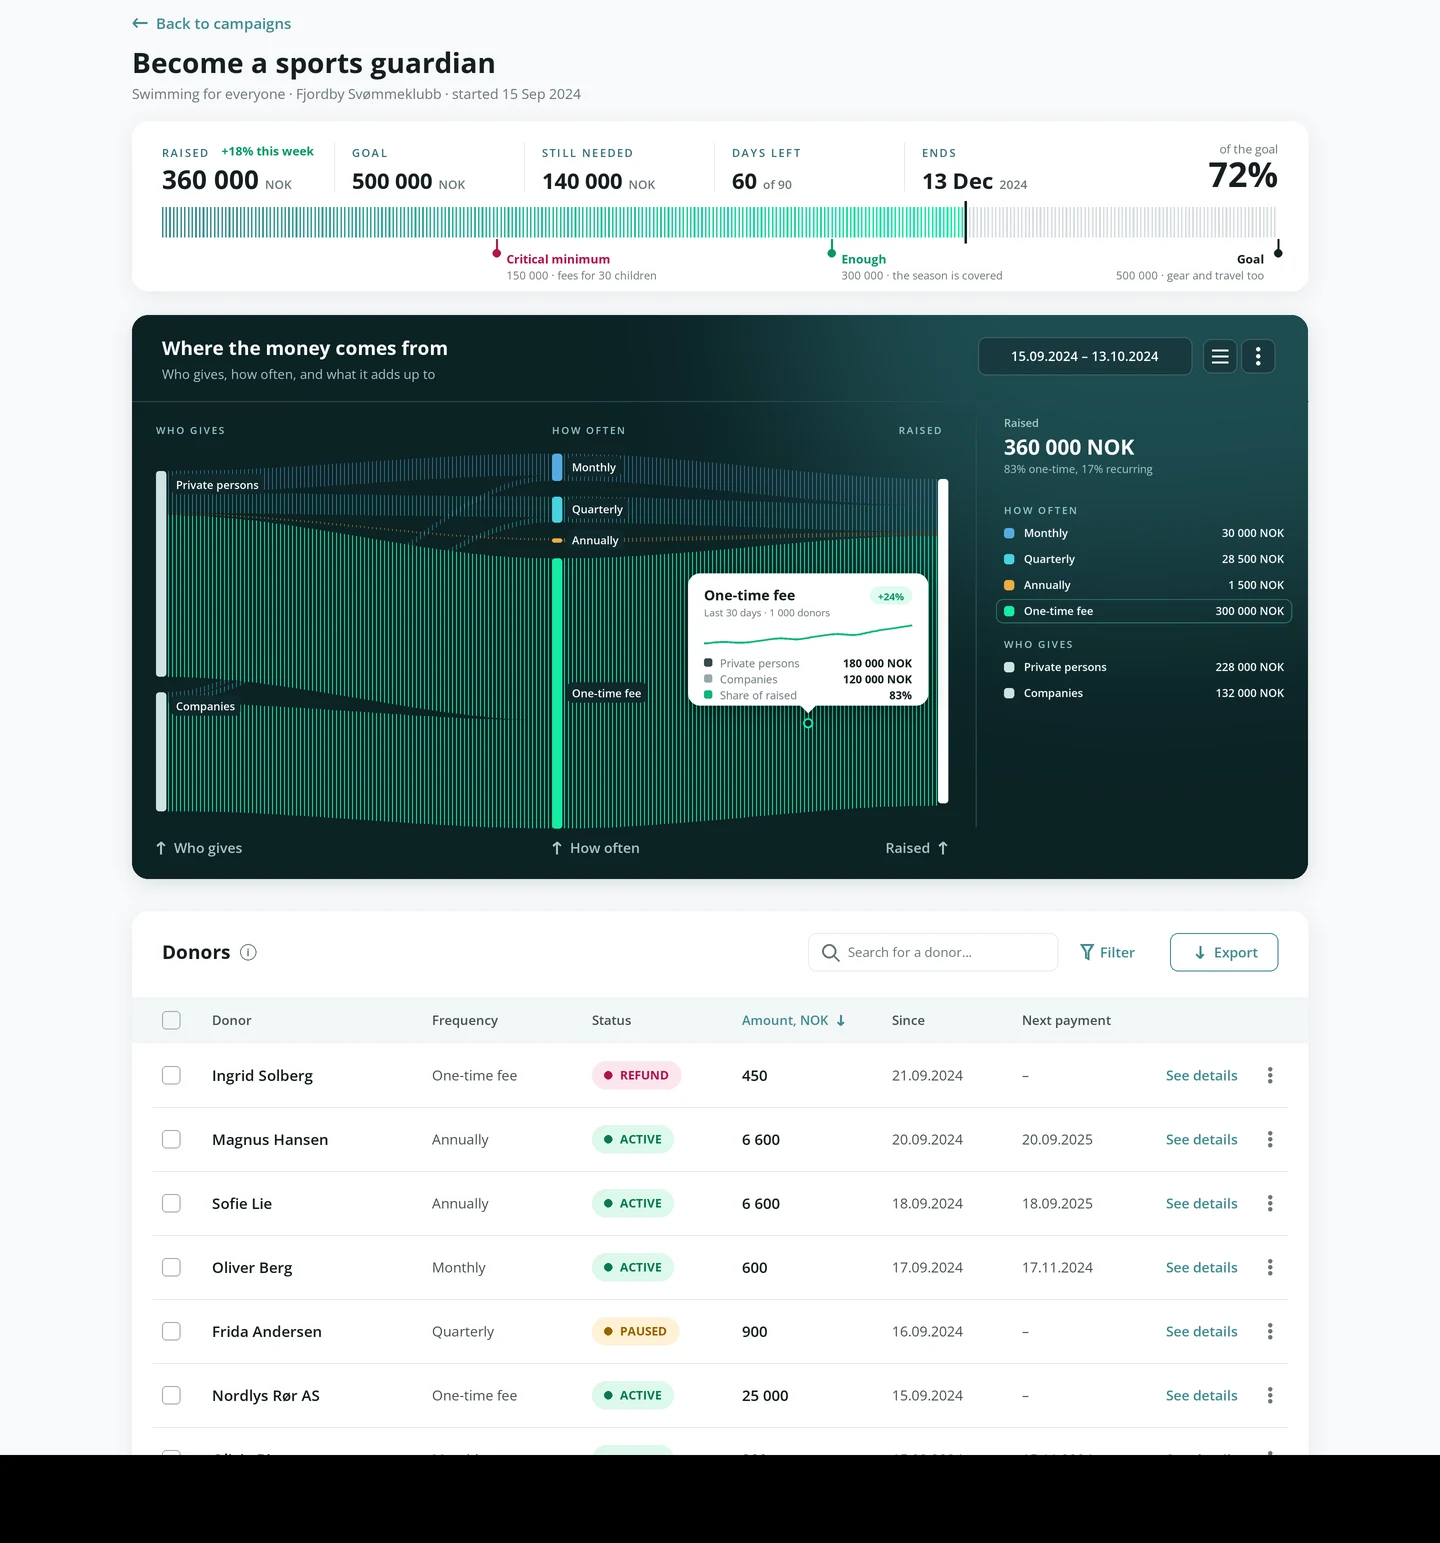
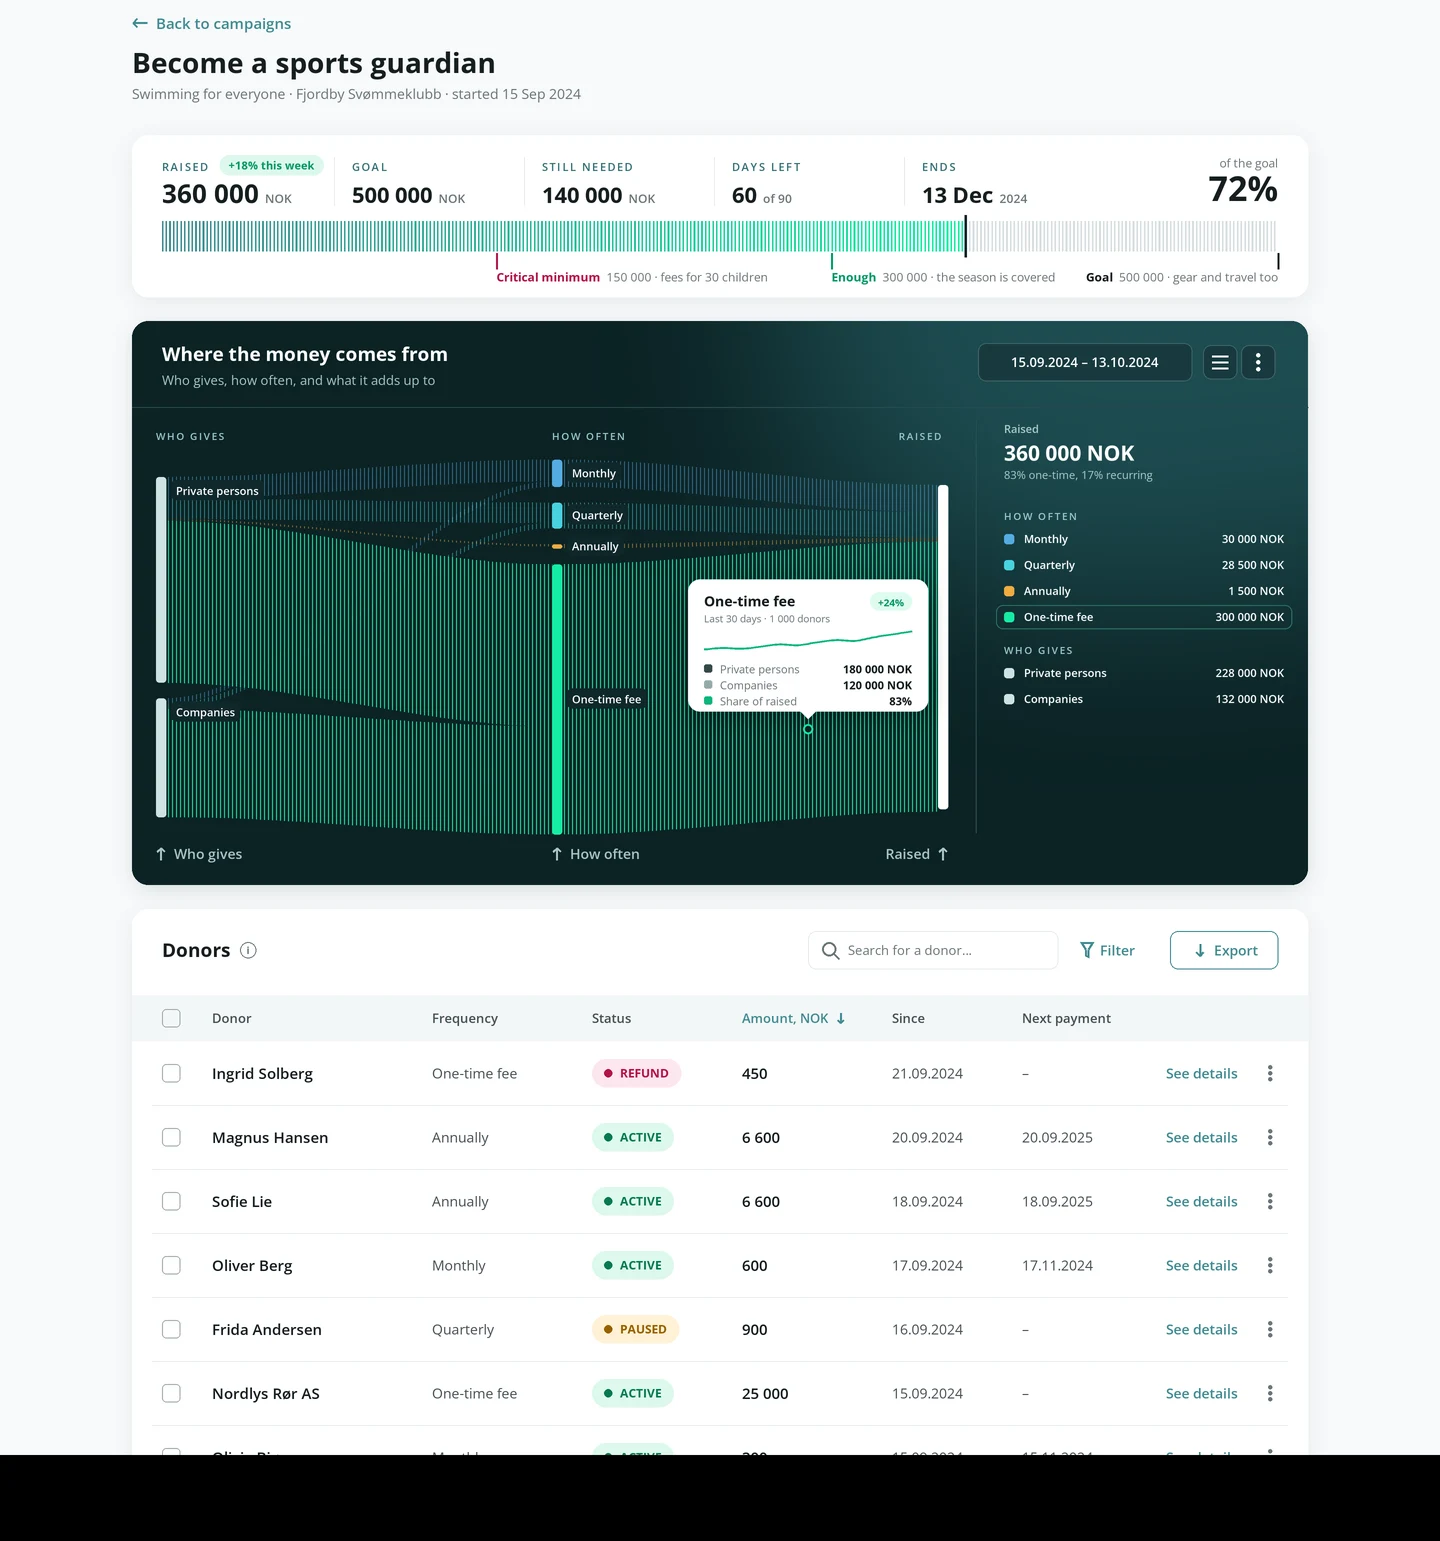
Sport Guardian admin: +18% as a badge, mark labels in one line, 36 px under the title and 24 px between blocks

diff --git a/SportGuardian.html b/SportGuardian.html
@@ -311,7 +311,7 @@ footer .wrap{display:flex;justify-content:space-between;gap:16px;flex-wrap:wrap}
 
 <figure class="c5-12 rv" style="--d:.1s"><div class="panel"><img class="el c" src="assets/work/sport-guardian/el-create-donations.webp" alt="From the campaign builder: Accept donations from private persons and companies, and Select donation frequency, from monthly to a one-time fee, each with a short hint." width="1200" height="1183" loading="lazy"></div><figcaption>For the club: who can give and how often, with a hint under every choice.</figcaption></figure>
 
-<figure class="c1-12 rv scroll"><div class="panel"><div class="browser" style="max-width:1000px"><div class="bar" aria-hidden="true"><i></i><i></i><i></i><span>admin.supporter.no</span></div><div class="vp fx" style="--to:-45.9%;--t:24s;--hd:4.514%"><img class="hd" src="assets/work/sport-guardian/screen-statistik-head.webp" alt="" width="1440" height="65" loading="lazy"><img src="assets/work/sport-guardian/screen-statistik-body.webp" alt="The campaign dashboard in the admin panel: the title Become a sports guardian; a progress card with 360 000 NOK raised, a 500 000 NOK goal, 140 000 still needed, 60 days left and the end date, a full-width bar at 72% with marks for the critical minimum, enough and the goal; a dark Sankey card of where the money comes from with a tooltip and a legend; and the donor table with search, Filter and Export." width="1440" height="1543" loading="lazy"></div></div></div><figcaption style="max-width:64ch">The campaign dashboard: the goal and the days left at the top, where the money comes from, and every donor with refunds and pauses in one table.</figcaption></figure>
+<figure class="c1-12 rv scroll"><div class="panel"><div class="browser" style="max-width:1000px"><div class="bar" aria-hidden="true"><i></i><i></i><i></i><span>admin.supporter.no</span></div><div class="vp fx" style="--to:-45.8%;--t:24s;--hd:4.514%"><img class="hd" src="assets/work/sport-guardian/screen-statistik-head.webp" alt="" width="1440" height="65" loading="lazy"><img src="assets/work/sport-guardian/screen-statistik-body.webp" alt="The campaign dashboard in the admin panel: the title Become a sports guardian; a progress card with 360 000 NOK raised, a 500 000 NOK goal, 140 000 still needed, 60 days left and the end date, a full-width bar at 72% with marks for the critical minimum, enough and the goal; a dark Sankey card of where the money comes from with a tooltip and a legend; and the donor table with search, Filter and Export." width="1440" height="1541" loading="lazy"></div></div></div><figcaption style="max-width:64ch">The campaign dashboard: the goal and the days left at the top, where the money comes from, and every donor with refunds and pauses in one table.</figcaption></figure>
       <div class="c1-12 rv charts">
         <div class="about"><h3>What this chart is</h3><p><b>A Sankey diagram.</b> Each band is as wide as the amount it carries, so you can follow the money from who gives, through how often they give, to the total.</p><p><b>When to use it:</b> when a whole splits and merges across stages and the question is where the volume goes, as with a budget, the money in a campaign, or the paths people take through a product. With more than about a dozen nodes, or when exact values must be compared, a table or a bar chart reads better.</p></div>
         <div><h3>Other charts, and when to use them</h3><ul class="ctypes"><li><svg viewBox="0 0 56 32" aria-hidden="true" focusable="false"><rect x="4" y="16" width="8" height="14" rx="1" fill="#CFE3E4"/><rect x="16" y="6" width="8" height="24" rx="1" fill="#418B91"/><rect x="28" y="12" width="8" height="18" rx="1" fill="#CFE3E4"/><rect x="40" y="20" width="8" height="10" rx="1" fill="#CFE3E4"/></svg><b>Bar chart</b><span>Compares amounts across categories, such as money raised per club or per campaign.</span></li><li><svg viewBox="0 0 56 32" aria-hidden="true" focusable="false"><path d="M3 26 L14 20 L24 22 L34 11 L44 13 L53 4" fill="none" stroke="#418B91" stroke-width="2" stroke-linejoin="round" stroke-linecap="round"/></svg><b>Line chart</b><span>Shows a trend over time, such as money raised day by day.</span></li><li><svg viewBox="0 0 56 32" aria-hidden="true" focusable="false"><path d="M3 26 L14 19 L24 21 L34 11 L44 12 L53 5 V30 H3 Z" fill="#CFE3E4"/><path d="M3 26 L14 19 L24 21 L34 11 L44 12 L53 5" fill="none" stroke="#418B91" stroke-width="2" stroke-linejoin="round"/></svg><b>Area chart</b><span>A line chart with the volume filled in: for a total that builds up over time.</span></li><li><svg viewBox="0 0 56 32" aria-hidden="true" focusable="false"><rect x="4" y="14" width="10" height="16" fill="#418B91"/><rect x="4" y="8" width="10" height="6" fill="#CFE3E4"/><rect x="22" y="10" width="10" height="20" fill="#418B91"/><rect x="22" y="3" width="10" height="7" fill="#CFE3E4"/><rect x="40" y="18" width="10" height="12" fill="#418B91"/><rect x="40" y="12" width="10" height="6" fill="#CFE3E4"/></svg><b>Stacked bar chart</b><span>Parts of a whole, compared across groups, such as one-time and recurring gifts per campaign.</span></li><li><svg viewBox="0 0 56 32" aria-hidden="true" focusable="false"><polygon points="28.0,2.0 40.1,9.0 40.1,23.0 28.0,30.0 15.9,23.0 15.9,9.0" fill="none" stroke="#CFE3E4" stroke-width="1"/><polygon points="28.0,7.0 35.8,11.5 35.8,20.5 28.0,25.0 20.2,20.5 20.2,11.5" fill="none" stroke="#CFE3E4" stroke-width="1"/><polygon points="28.0,11.5 31.9,13.8 31.9,18.2 28.0,20.5 24.1,18.2 24.1,13.8" fill="none" stroke="#CFE3E4" stroke-width="1"/><line x1="28" y1="16" x2="28.0" y2="2.0" stroke="#CFE3E4" stroke-width="1"/><line x1="28" y1="16" x2="40.1" y2="9.0" stroke="#CFE3E4" stroke-width="1"/><line x1="28" y1="16" x2="40.1" y2="23.0" stroke="#CFE3E4" stroke-width="1"/><line x1="28" y1="16" x2="28.0" y2="30.0" stroke="#CFE3E4" stroke-width="1"/><line x1="28" y1="16" x2="15.9" y2="23.0" stroke="#CFE3E4" stroke-width="1"/><line x1="28" y1="16" x2="15.9" y2="9.0" stroke="#CFE3E4" stroke-width="1"/><polygon points="28.0,4.0 34.9,12.0 39.3,22.5 28.0,22.0 19.3,21.0 20.2,11.5" fill="#418B91" fill-opacity=".35" stroke="#418B91" stroke-width="1.6" stroke-linejoin="round"/></svg><b>Radar chart</b><span>Compares several measures of one thing at once, such as how a club does on donors, gifts, reach and repeat giving against the average; reads best with five to eight measures.</span></li><li><svg viewBox="0 0 56 32" aria-hidden="true" focusable="false"><circle cx="28" cy="16" r="11" fill="none" stroke="#CFE3E4" stroke-width="5"/><path d="M28 5 A11 11 0 1 1 18.5 21.5" fill="none" stroke="#418B91" stroke-width="5"/></svg><b>Donut or progress ring</b><span>One share of a whole, or progress to a goal; reads best with one to three parts.</span></li><li><svg viewBox="0 0 56 32" aria-hidden="true" focusable="false"><rect x="4" y="3" width="48" height="6" rx="1" fill="#418B91"/><rect x="11" y="12" width="34" height="6" rx="1" fill="#418B91" fill-opacity=".7"/><rect x="18" y="21" width="20" height="6" rx="1" fill="#418B91" fill-opacity=".45"/></svg><b>Funnel chart</b><span>How many people drop off between the steps of a flow, from the campaign page to the payment.</span></li><li><svg viewBox="0 0 56 32" aria-hidden="true" focusable="false"><rect x="4" y="3" width="9" height="8" rx="1" fill="#418B91" fill-opacity="0.2"/><rect x="14" y="3" width="9" height="8" rx="1" fill="#418B91" fill-opacity="0.5"/><rect x="24" y="3" width="9" height="8" rx="1" fill="#418B91" fill-opacity="0.9"/><rect x="34" y="3" width="9" height="8" rx="1" fill="#418B91" fill-opacity="0.6"/><rect x="44" y="3" width="9" height="8" rx="1" fill="#418B91" fill-opacity="0.3"/><rect x="4" y="12" width="9" height="8" rx="1" fill="#418B91" fill-opacity="0.4"/><rect x="14" y="12" width="9" height="8" rx="1" fill="#418B91" fill-opacity="0.8"/><rect x="24" y="12" width="9" height="8" rx="1" fill="#418B91" fill-opacity="1"/><rect x="34" y="12" width="9" height="8" rx="1" fill="#418B91" fill-opacity="0.7"/><rect x="44" y="12" width="9" height="8" rx="1" fill="#418B91" fill-opacity="0.2"/><rect x="4" y="21" width="9" height="8" rx="1" fill="#418B91" fill-opacity="0.1"/><rect x="14" y="21" width="9" height="8" rx="1" fill="#418B91" fill-opacity="0.3"/><rect x="24" y="21" width="9" height="8" rx="1" fill="#418B91" fill-opacity="0.5"/><rect x="34" y="21" width="9" height="8" rx="1" fill="#418B91" fill-opacity="0.4"/><rect x="44" y="21" width="9" height="8" rx="1" fill="#418B91" fill-opacity="0.15"/></svg><b>Heatmap</b><span>Patterns across two dimensions, such as donations by weekday and hour.</span></li><li><svg viewBox="0 0 56 32" aria-hidden="true" focusable="false"><circle cx="6" cy="26" r="2.6" fill="#418B91"/><circle cx="12" cy="23" r="2.6" fill="#418B91"/><circle cx="16" cy="24" r="2.6" fill="#418B91"/><circle cx="21" cy="19" r="2.6" fill="#418B91"/><circle cx="26" cy="18" r="2.6" fill="#418B91"/><circle cx="30" cy="15" r="2.6" fill="#418B91"/><circle cx="35" cy="14" r="2.6" fill="#418B91"/><circle cx="39" cy="10" r="2.6" fill="#418B91"/><circle cx="44" cy="11" r="2.6" fill="#418B91"/><circle cx="49" cy="6" r="2.6" fill="#418B91"/><circle cx="24" cy="25" r="2.6" fill="#418B91"/><circle cx="42" cy="20" r="2.6" fill="#418B91"/></svg><b>Scatter plot</b><span>How two measures relate, such as the size of a gift and how often the donor gives.</span></li></ul></div>

diff --git a/tools/sport-guardian/admin_dash.py b/tools/sport-guardian/admin_dash.py
@@ -48,7 +48,8 @@ text(X0, 164, 'Swimming for everyone · Fjordby Svømmeklubb · started 15 Sep 2
 
 # 1. the progress card, after her reference: the numbers on top, a full-width bar of thin vertical lines, and marks
 # under it for the critical minimum, the amount that is enough, and the goal. Thresholds are made up for the mockup.
-y0, y1 = 186, 356; card(X0, y0, X1, y1)
+GAP_B = 24
+y0, y1 = 200, 362; card(X0, y0, X1, y1)
 GOAL, RAISED_ = 500000, 360000
 stats = [('RAISED', '360 000', 'NOK', '+18% this week'), ('GOAL', '500 000', 'NOK', ''), ('STILL NEEDED', '140 000', 'NOK', ''),
          ('DAYS LEFT', '60', 'of 90', ''), ('ENDS', '13 Dec', '2024', '')]
@@ -58,7 +59,10 @@ for k, (lab_, val, unit, extra) in enumerate(stats):
     _tracked(d, P(x, y0+24), lab_, f('SemiBold', 11), LAB, 1.6*S)
     vf = f('Bold', 26 if k == 0 else 22); text(x, y0+68, val, vf, INK, 'ls')
     vw = d.textlength(val, font=vf)/S; text(x+vw+6, y0+68, unit, f('SemiBold', 12), MUT, 'ls')
-    if extra: text(x+d.textlength(lab_, font=f('SemiBold', 11))/S+12+len(lab_)*1.6, y0+30, extra, f('Bold', 12), UP, 'lm')
+    if extra:
+        bx = x+d.textlength(lab_, font=f('SemiBold', 11))/S+len(lab_)*1.6+10; bw_ = d.textlength(extra, font=f('Bold', 11))/S+18
+        d.rounded_rectangle(P(bx, y0+20, bx+bw_, y0+40), 10*S, fill=(221, 248, 236))
+        text(bx+bw_/2, y0+30, extra, f('Bold', 11), UP, 'mm')
     if k: d.line(P(x-18, y0+22, x-18, y0+70), fill=LINE, width=S)
 text(X1-30, y0+66, '72%', f('Bold', 34), INK, 'rs')
 text(X1-30, y0+28, 'of the goal', f('Regular', 12), MUT, 'rm')
@@ -78,18 +82,18 @@ xr = bl+(br-bl)*RAISED_/GOAL; d.rectangle(P(xr-1, by-6, xr+1, by+bh+6), fill=DEE
 CRIT = (176, 20, 74)
 marks = [(150000, 'Critical minimum', '150 000 · fees for 30 children', CRIT), (300000, 'Enough', '300 000 · the season is covered', UP),
          (500000, 'Goal', '500 000 · gear and travel too', DEEP)]
+ly = by+bh+26
 for v, name, sub, mc in marks:
-    x = bl+(br-bl)*v/GOAL; a = 'ra' if v == GOAL else 'la'
-    d.line(P(x, by+bh+2, x, by+bh+14), fill=mc, width=2*S)
-    xx = x-4 if v == GOAL else x+6
-    d.ellipse(P(x-4, by+bh+12, x+4, by+bh+20), fill=mc)
-    text(xx-10 if v == GOAL else xx+4, by+bh+22, name, f('Bold', 12), mc if mc != DEEP else INK, 'rm' if v == GOAL else 'lm')
-    text(xx-10 if v == GOAL else xx+4, by+bh+38, sub, f('Regular', 11), MUT, 'rm' if v == GOAL else 'lm')
+    x = bl+(br-bl)*v/GOAL; end = v == GOAL
+    d.line(P(x, by+bh+2, x, ly-8), fill=mc, width=2*S)
+    nf, sf = f('Bold', 12), f('Regular', 12); nw = d.textlength(name, font=nf)/S; sw = d.textlength('  '+sub, font=sf)/S
+    x0_ = x-nw-sw if end else x
+    text(x0_, ly, name, nf, mc if mc != DEEP else INK, 'lm'); text(x0_+nw, ly, '  '+sub, sf, MUT, 'lm')
 
 # 2. the Sankey card: deep teal with a soft glow (as before), the new header with the date range and controls, the
 # chart as it was (its data, tooltip and legend, sankey.flow_body), and the column names along the bottom
 from sankey import flow_body
-y0 = 380; BODY = 420; y1 = y0+92+BODY+52
+y0 = y1+GAP_B; BODY = 420; y1 = y0+92+BODY+52
 sh = Image.new('L', im.size, 0); ImageDraw.Draw(sh).rounded_rectangle(P(X0+2, y0+6, X1-2, y1+3), 16*S, fill=40)
 im.paste(Image.new('RGB', im.size, (30, 60, 66)), (0, 0), sh.filter(ImageFilter.GaussianBlur(10*S)))
 cw, chh = (X1-X0)*S, (y1-y0)*S
@@ -117,7 +121,7 @@ for xx, t, a in [(xL, 'Who gives', 'l'), (xM, 'How often', 'l'), (xR+NW, 'Raised
     else: arrow(xx-5, y1-31, 'up', WM, 6); text(xx-18, y1-26, t, fn, WM, 'rs')
 
 # 3. the donor table: search, Filter and Export in its header, the column headers in the same card
-y0 = y1+32; rows = [('Ingrid Solberg', 'One-time fee', 'Refund', '450', '21.09.2024', '–'),
+y0 = y1+GAP_B; rows = [('Ingrid Solberg', 'One-time fee', 'Refund', '450', '21.09.2024', '–'),
                   ('Magnus Hansen', 'Annually', 'Active', '6 600', '20.09.2024', '20.09.2025'),
                   ('Sofie Lie', 'Annually', 'Active', '6 600', '18.09.2024', '18.09.2025'),
                   ('Oliver Berg', 'Monthly', 'Active', '600', '17.09.2024', '17.11.2024'),
